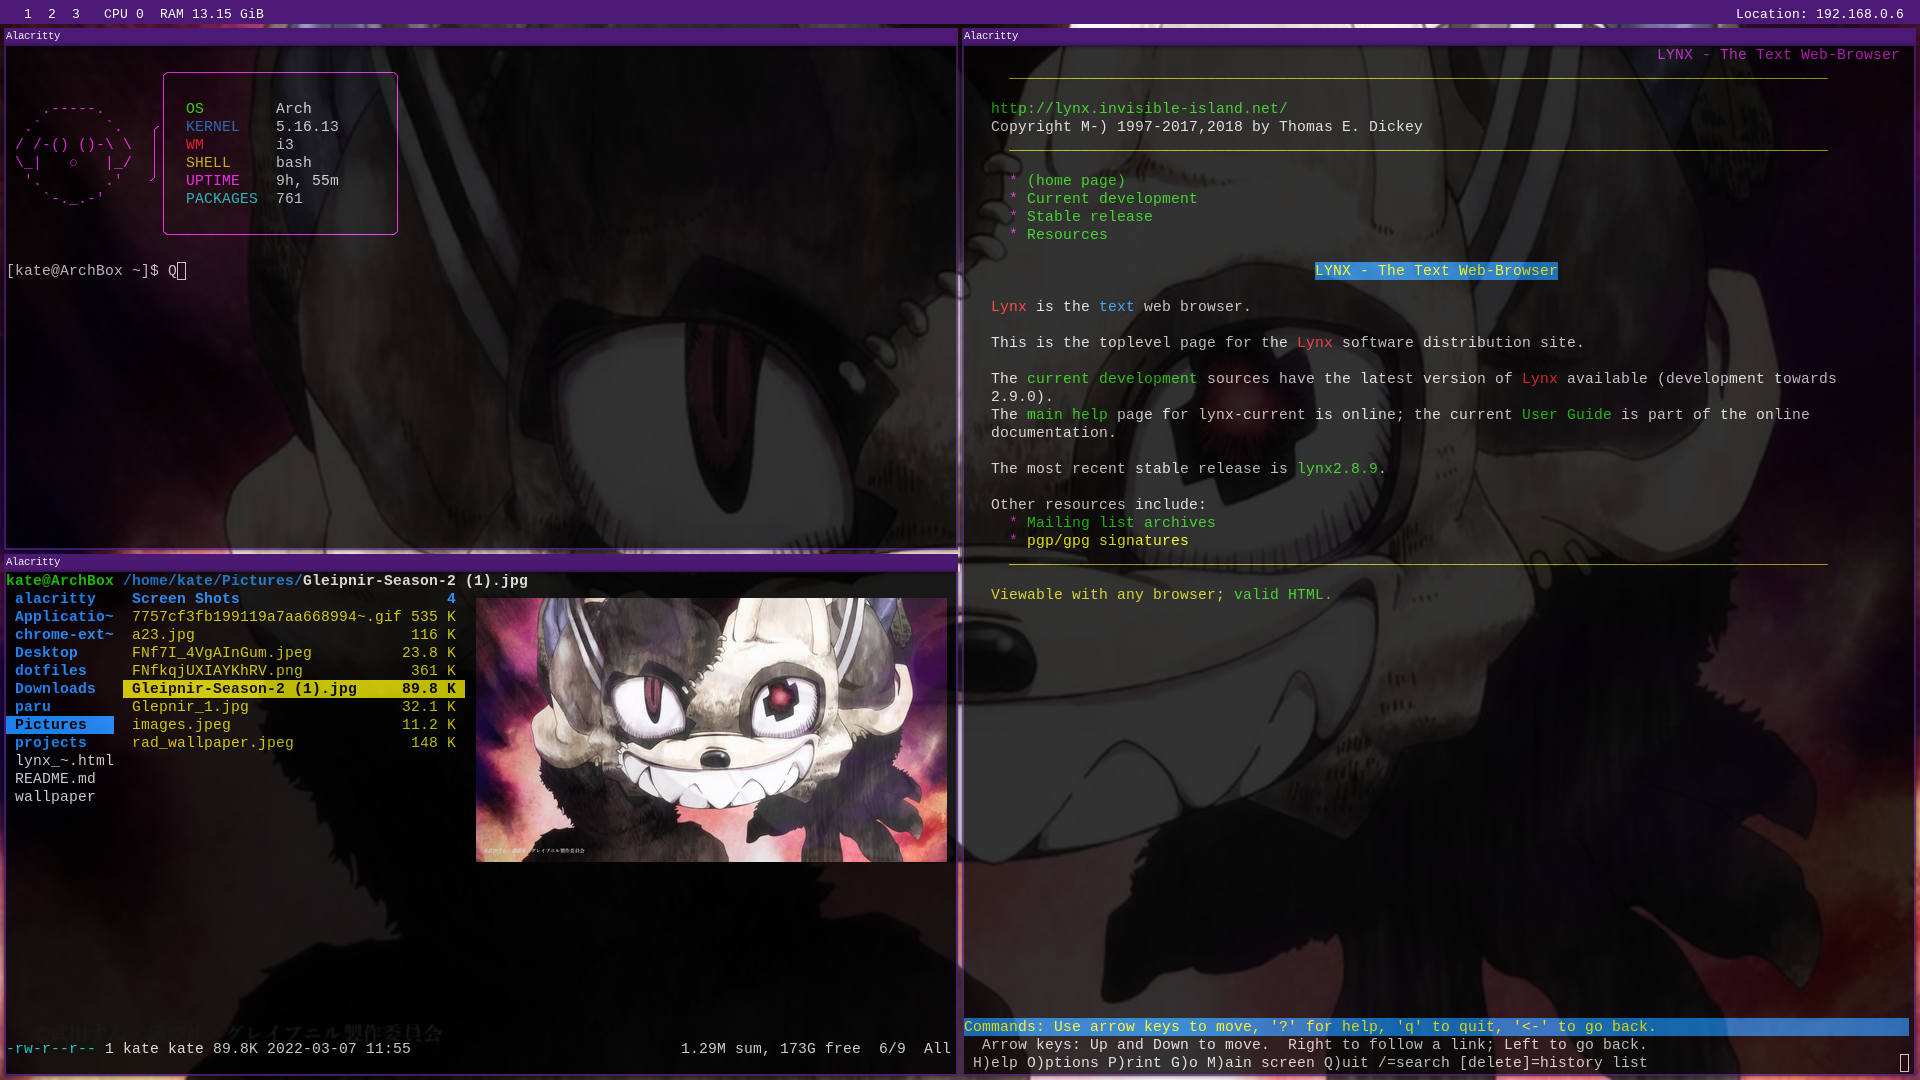
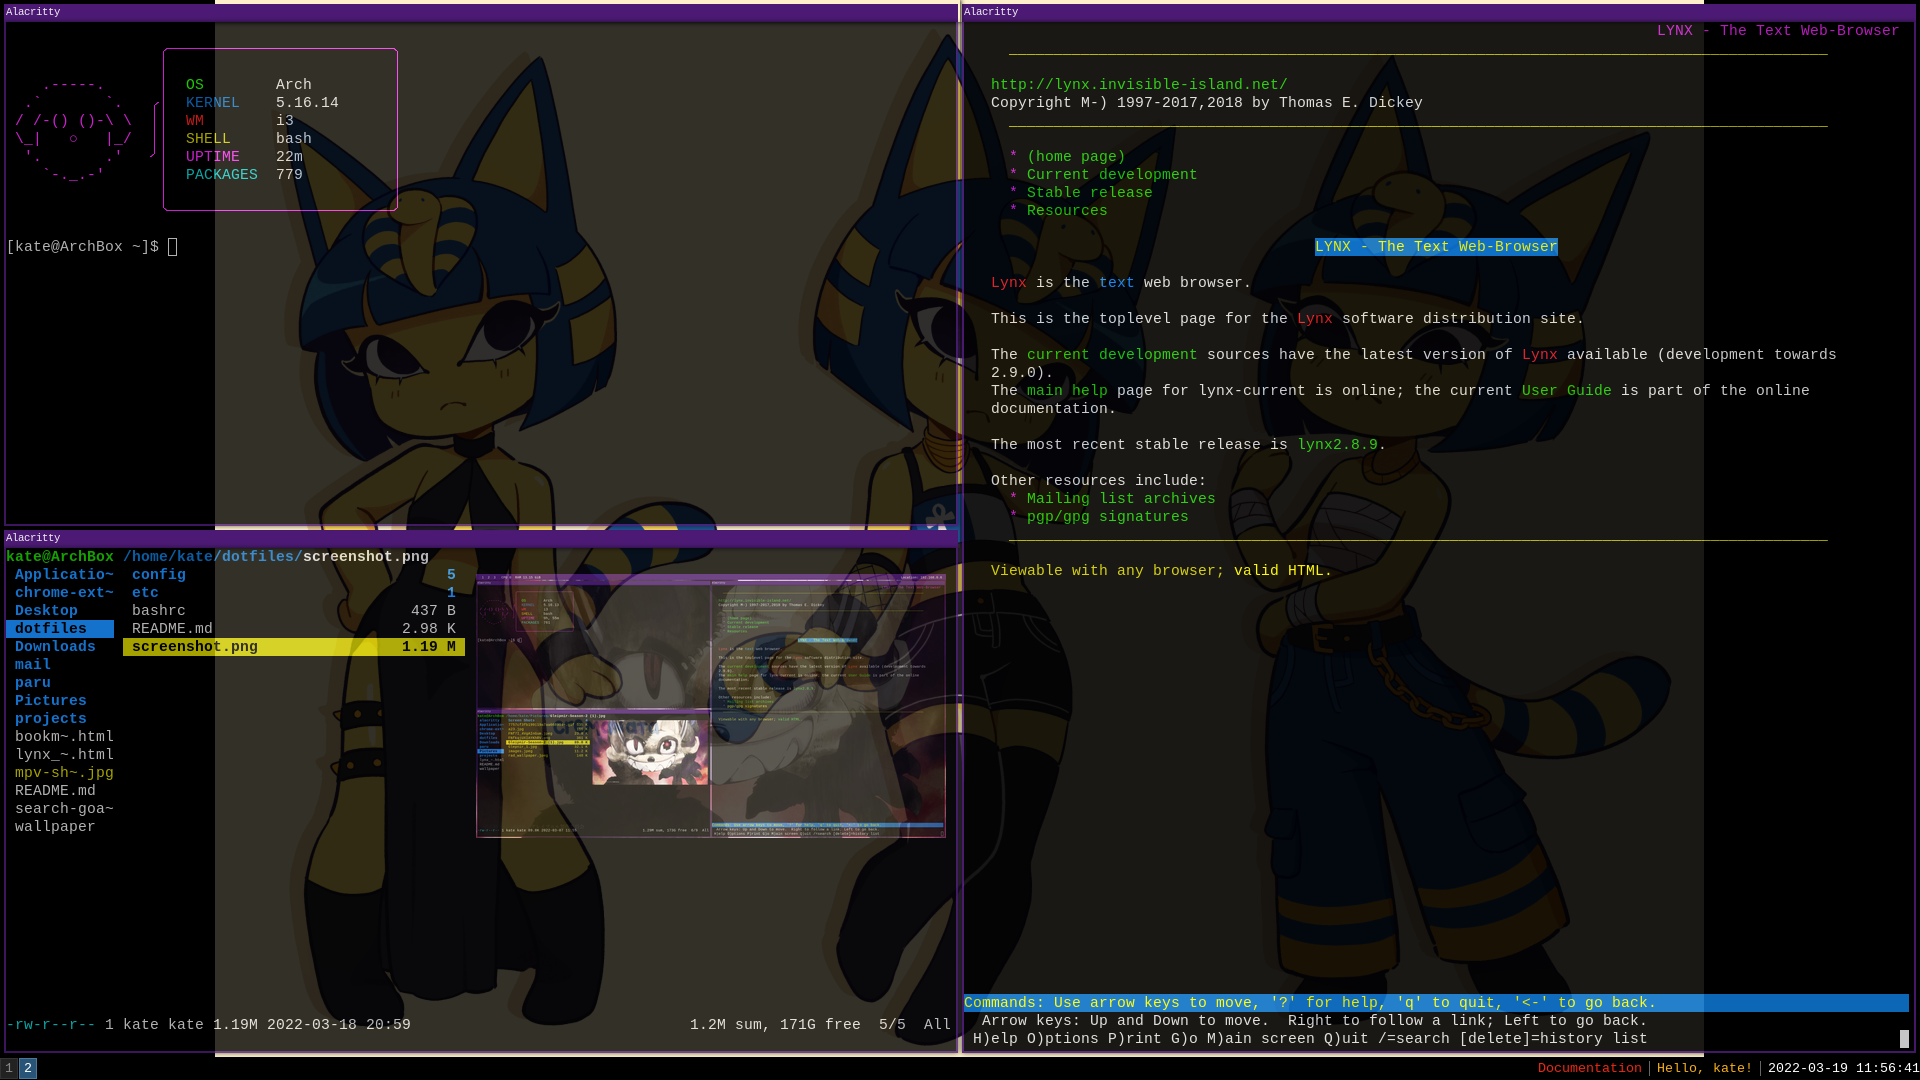
Reordered instructions + new screenshot

diff --git a/README.md b/README.md
@@ -3,7 +3,10 @@
 ## And my desktop too but only difference is I install steam and a web browser (currently ungoogled-chrome). Might explain that here eve
 ntually.
 
-![This is an Screenshot](https://github.com/KateYagi/dotfiles/blob/main/screenshot.png?raw=true)
+![Screenshot](https://github.com/KateYagi/dotfiles/blob/main/screenshot.png?raw=true)
+Image used as wallpaper in screenshot:
+https://cremanata.tumblr.com/post/673199071629066242/ankha-but-she-got-new-outfits-twitter-ig
+https://static1.e926.net/data/05/2c/052c2213e1b683b245d519e011ea25b3.png
 
 Install arch with archinstall
 
@@ -12,14 +15,9 @@ i3-gaps, Don't mess up the time zone because for some reason wifi doesn't work w
 Choose Win Key in i3-config wizard, then go into terminal mode to not get flashbanged
 - crtl+alt+f2
 
-
-Install alacritty and replace i3-sensible-terminal with alacritty in .config/i3/config
-- sudo pacman -S alacritty 
-- nano .config/i3/config
-
-
-Go back to gui mode
-- ctrl+alt+f7
+Download this so you don't have to follow from memory / another device
+- git clone https://github.com/KateYagi/dotfiles/
+- cat dotfiles/README.md
 
 
 Install paru's dependencies
@@ -29,11 +27,6 @@ Install paru's dependencies
 - rustup default stable
 
 
-Download this so you don't have to follow from memory / another device
-- git clone https://github.com/KateYagi/dotfiles/
-- cat dotfiles/README.md
-
-
 Install paru
 - git clone https://aur.archlinux.org/paru.git
 - cd paru
@@ -41,10 +34,17 @@ Install paru
 - cd ~
 
 
-Set terminal theme to kitty so lynx looks better
-- paru -S alacritty-themes
-- alacritty-themes --create
-- alacritty-themes Kitty
+Install alacritty (with sixel support!) and replace i3-sensible-terminal with alacritty in .config/i3/config
+- paru -S alacritty-sixel-git libsixel
+- nano .config/i3/config
+ - bindsym $mod+Return exec alacritty
+
+Optionally add it to IgnorePkg in /etc/pacman.conf if you don't wanna have to recompile it every update because at least on laptop that's kinda annoying. I'm sure there's a bin for it, or I could learn to make an aur but that sounds like a lot of resposibility.
+
+
+Go back to gui mode
+- ctrl+alt+f7
+
 
 Install lolcat for rainbow text, (very important) and file management, decoration, and media related stuff.
 - paru -S lolcat pcmanfm nnn ranger picom polybar feh ytfzf fzf ueberzug appimagelauncher rofi coreshot
